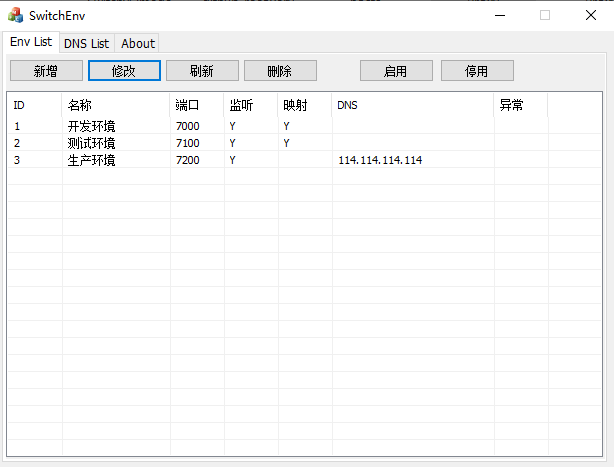
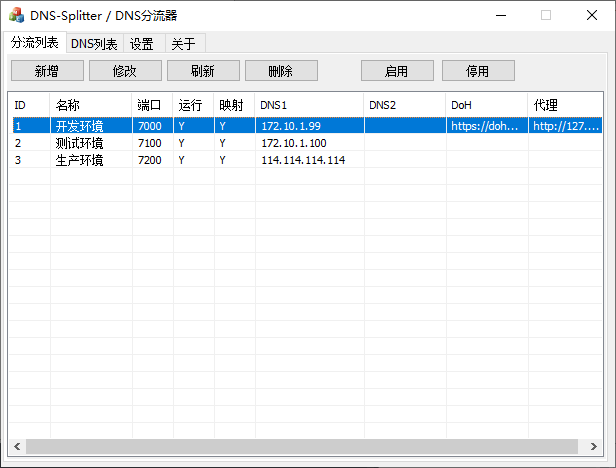
1.0.0.6

diff --git a/README.md b/README.md
@@ -1,29 +1,34 @@
-# SwitchEnv
-> 基于浏览器流量,将DNS解析规则提升到应用层
+# DNS-Splitter
+> HTTP代理模式下的DNS分流器
 
 1. 浏览器安装 zeroomega 插件
 ```
 https://chromewebstore.google.com/detail/zeroomega-proxy-switchy-m/pfnededegaaopdmhkdmcofjmoldfiped
 ```
-2. 配置插件中的端口为 SwitchEnv 监听的
-![alt text](https://github.com/mycoco/SwitchEnv/blob/main/images/AImage_0001.png)
+![alt text](https://github.com/mycoco/DNS-Splitter/blob/main/images/AImage_0000.png)
 
-4. 启动 SwitchEnv 且配置环境
-- 新建配置
 
-![alt text](https://github.com/mycoco/SwitchEnv/blob/main/images/AImage_0003.png)
-- 配置列表
+2. 配置插件中的端口为 DNS-Splitter 监听的
+![alt text](https://github.com/mycoco/DNS-Splitter/blob/main/images/AImage_0001.png)
 
-![alt text](https://github.com/mycoco/SwitchEnv/blob/main/images/AImage_0002.png)
+4. 启动 DNS-Splitter
+- 分流列表
+![alt text](https://github.com/mycoco/DNS-Splitter/blob/main/images/AImage_0002.png)
 
-5. 解析域名的规则由 SwitchEnv 接管
+- 修改DNS分流配置
+![alt text](https://github.com/mycoco/DNS-Splitter/blob/main/images/AImage_0003.png)
 
-#### TODO
-1. 增加DOH解析域名
-2. 增加浏览器插件,自动读取SwitchEnv设置的列表
+5. 解析域名的规则由 DNS-Splitter / DNS 分流器接管
 
 
 #### 更新日志
+- 1.0.0.6 
+1. 增加参数设置 [规则未匹配,则使用操作系统的DNS解析], 未勾选的情况下如果未匹配规则,则直接终止解析与请求
+
+- 1.0.0.5
+1. 增加DoH
+2. 增加HTTP代理
+
 - 1.0.0.2
 1. 修复ip映射关系解析规则
 
@@ -39,10 +44,10 @@ https://chromewebstore.google.com/detail/zeroomega-proxy-switchy-m/pfnededegaaop
 3. 最后,使用操作系统的DNS进行解析
 
 
-#### Env List 
-> 可以配置多条解析规则,使用不同的端口
+#### 分流列表
+> 可以配置多条解析规则,使用不同的代理端口来隔离
 
-#### 新增/修改配置
+#### 分流配置
 1. 方案名称, 用于区分规则名称
 2. 监听端口, 用于隔离浏览接管
 3. 域名IP映射关系, 可以实现ip与域名直接映射 
@@ -88,9 +93,10 @@ https://chromewebstore.google.com/detail/zeroomega-proxy-switchy-m/pfnededegaaop
 192.168.100.52  *abc112.com;*abc113.com
 ```
 
-#### DNS List 可以预设多条DNS服务器地址
+#### DNS列表
+> 可以预设多条DNS服务器地址
 
-#### About  关于
+#### 关于
 
 
 
